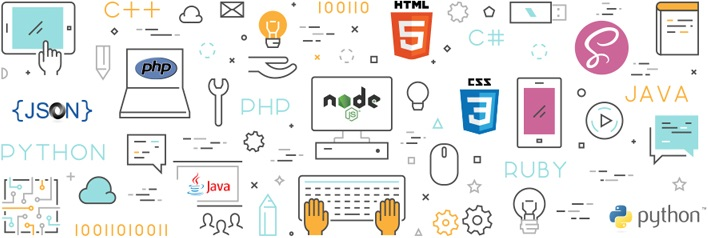
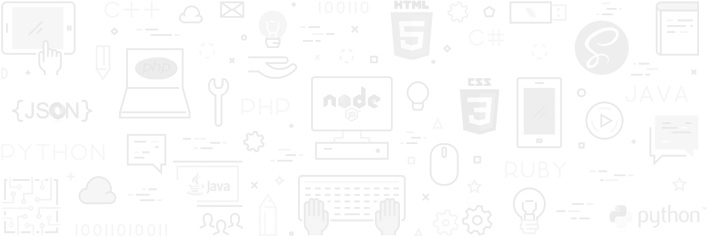
Add new section - skills

diff --git a/index.html b/index.html
@@ -28,25 +28,32 @@
         </div>
     </header>
     <section id="about-me">
-        <div class="about-me-container">
-            <div class="about-me-bgc"></div>
+        <div class="about-me-container container">
+            <h2>Who am I?</h2>
             <img src="src/portrait.png" alt="portrait">
-            <h2>Nice to meet you.</h2>
-            <p>Professionally I am a Project Coordinator in telecommunications industry, but I'm also self-taught
-                Front-End
-                Web Development enthusiast. I've been learning programming for a few months starting from web
-                development
-                fundamentals like HTML, CSS and JavaScript. Having in mind constant growth I've also completed
-                8-week
-                Front-End Developer course involving a lot of new technologies, such as: React.js, Node.js, AJAX,
-                Bootstrap,
-                SASS, Wordpress and GIT. I'm ambitious, detail-oriented and eager to develop. I'm up for a new
-                challenge
-                and
-                I'm looking for opportunities to grow as a Front-End Developer.</p>
+            <p>Professionally I'm a Project Coordinator in telecommunications industry, but I'm also self-taught
+                Front-End Web Development enthusiast. I've been learning programming for a few months starting from web
+                development fundamentals like <span class="stack">HTML, CSS and JavaScript</span>. Having in mind
+                constant growth I've also completed 8-week Front-End Developer course involving a lot of new
+                technologies, such as: <span class="stack">React.js, Node.js, AJAX, Bootstrap, SASS, Wordpress and
+                    GIT</span>. I'm ambitious, detail-oriented and eager to develop. I'm up for a new challenge and I'm
+                looking for opportunities to grow as a Front-End Developer.</p>
         </div>
     </section>
-    <section id="skills"></section>
+    <section id="skills">
+        <h2>Languages and technologies I can use:</h2>
+        <div class="skills-container container">
+            <div class="skill"><i class="fab fa-html5"></i><span class="stack label">HTML5</span></div>
+            <div class="skill"><i class="fab fa-css3"></i><span class="stack label">CSS3</span></div>
+            <div class="skill"><i class="fab fa-js"></i><span class="stack label">JavaScript</span></div>
+            <div class="skill"><i class="fab fa-react"></i><span class="stack label">React.js</span></div>
+            <div class="skill"><i class="fab fa-node"></i><span class="stack label">Node.js</span></div>
+            <div class="skill"><i class="fab fa-bootstrap"></i><span class="stack label">Bootstrap</span></div>
+            <div class="skill"><i class="fab fa-sass"></i><span class="stack label">SASS</span></div>
+            <div class="skill"><i class="fab fa-wordpress"></i><span class="stack label">Wordpress</span></div>
+            <div class="skill"><i class="fab fa-git"></i><span class="stack label">GIT</span></div>
+        </div>
+    </section>
     <section id="portfolio"></section>
     <!-- <footer id="footer">Copyrights &copy; 2020 Mateusz Murat</footer> -->
 </body>

diff --git a/style.css b/style.css
@@ -19,25 +19,35 @@ html {
 
 body {
   margin: 0;
+  background-image: url(src/about-me-bgc.jpg);
+  background-attachment: fixed;
 }
 
 p {
   margin: 0 auto;
-  padding-bottom: 40px;
   font-size: 2rem;
   text-align: center;
   line-height: 3.5rem;
 }
 
 h2 {
-  margin: 40px 0;
+  margin: 0 auto;
   font-size: 4rem;
   text-align: center;
+  color: var(--blue);
 }
 
 *, *:before, *:after {
   box-sizing: inherit;
   color: inherit;
+}
+
+.container {
+  margin: 100px auto -200px auto;
+  padding-top: 60px;
+  border-radius: 20px;
+  box-shadow: 0 0 10px 0 #ccc;
+  background-color: #fff;
 }
 
 /* Header */
@@ -103,7 +113,7 @@ h1 {
   flex-basis: 30%;
   flex-direction: column;
   justify-content: flex-end;
-  padding-bottom: 30px;
+  padding-bottom: 40px;
 }
 
 .arrow {
@@ -118,36 +128,65 @@ h1 {
 }
 
 .about-me-container {
-  position: relative;
   flex-basis: 80%;
-  margin: 100px auto;
-  border-radius: 20px;
-  box-shadow: 0 0 10px 0 #ccc;
-  overflow: hidden;
 }
 
 .about-me-container img {
   width: 25%;
   display: block;
-  margin: 0 auto;
-  padding-top: 40px;
+  margin: 60px auto;
 }
 
 .about-me-container p {
   width: 80%;
+  padding-bottom: 60px;
 }
 
-.about-me-bgc {
-  position: absolute;
-  left: 0;
-  top: 0;
-  z-index: -1;
-  width: 100%;
-  height: 100%;
-  background-image: url(src/about-me-bgc.jpg);
-  background-attachment: fixed;
-  filter: grayscale(100%);
-  opacity: 0.1;
+span.stack {
+  font-weight: 700;
+  color: #7510f7;
+}
+
+/* Skills */
+#skills {
+  display: flex;
+  flex-direction: column;
+  align-items: center;
+  padding-top: 360px;
+  background-color: var(--blue);
+}
+
+#skills>h2 {
+  width: 80%;
+  color: var(--white);
+}
+
+.skills-container {
+  display: flex;
+  flex-wrap: wrap;
+  width: 80%;
+  margin-top: 60px;
+}
+
+.skill {
+  display: flex;
+  flex-direction: column;
+  align-items: center;
+  flex-basis: 33.33%;
+  padding-bottom: 60px;
+  font-size: 20rem;
+  color: var(--blue);
+}
+
+span.stack.label {
+  color: var(--black);
+  font-weight: 500;
+  padding-top: 20px;
+  font-size: 2.5rem;
+}
+
+#portfolio {
+  height: 100vh;
 }
 
 /* Keyframes */
